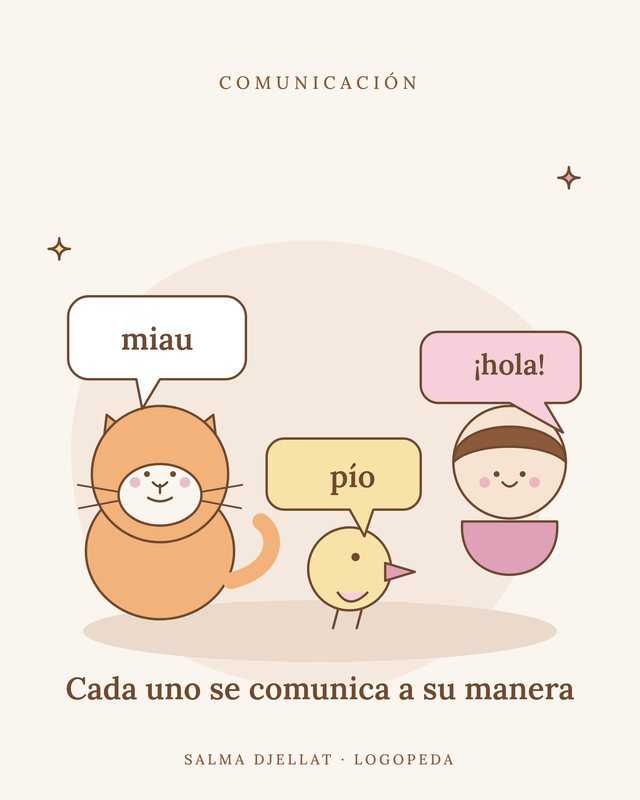
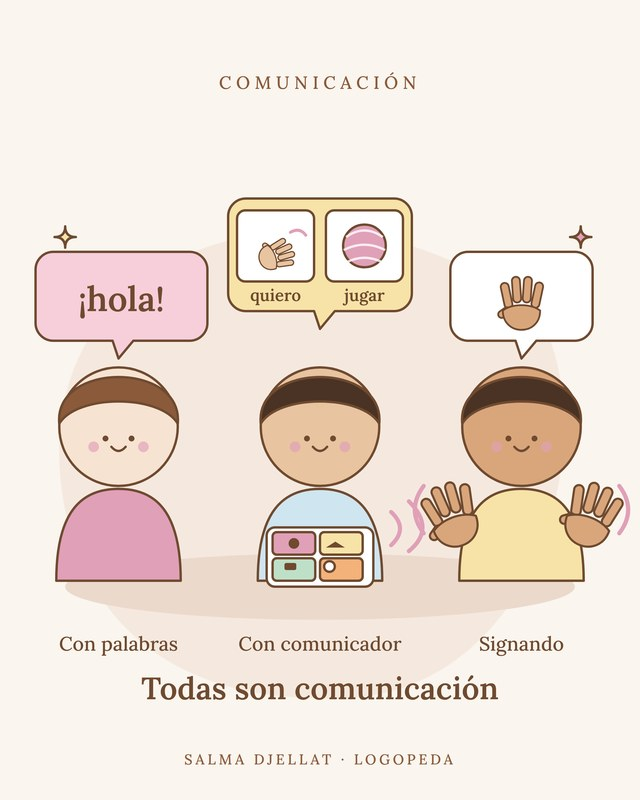
Add files via upload

diff --git a/preguntas (10).html b/preguntas (10).html
@@ -1,0 +1,140 @@
+<!DOCTYPE html>
+<html lang="es">
+<head>
+<meta charset="UTF-8">
+<meta name="viewport" content="width=device-width, initial-scale=1, viewport-fit=cover">
+<title>Preguntas frecuentes &middot; Logopedia Salma Djellat</title>
+<link rel="canonical" href="https://logopediasalmadjellat.com/preguntas.html">
+<meta name="description" content="Respuestas a las dudas m&aacute;s habituales sobre las sesiones de logopedia con Salma Djellat.">
+<link rel="icon" href="favicon.ico" sizes="any">
+<link rel="icon" type="image/png" sizes="48x48" href="/favicon-48.png">
+<link rel="icon" type="image/png" sizes="96x96" href="/favicon-96.png">
+<link rel="icon" type="image/png" sizes="192x192" href="/favicon-192.png">
+<link rel="icon" type="image/png" sizes="32x32" href="favicon-32.png">
+<link rel="icon" type="image/png" sizes="16x16" href="favicon-16.png">
+<link rel="apple-touch-icon" href="apple-touch-icon.png">
+<link rel="stylesheet" href="styles.css">
+</head>
+<body>
+<header class="site">
+  <div class="wrap nav">
+    <a class="brand" href="index.html">
+      <svg viewBox="0 0 380 380" xmlns="http://www.w3.org/2000/svg" fill="none" aria-hidden="true">
+        <defs>
+          <path id="hdrTop" d="M 72,190 a 118,118 0 1,1 236,0" fill="none"/>
+          <path id="hdrBot" d="M 308,190 a 118,118 0 1,1 -236,0" fill="none"/>
+        </defs>
+        <circle cx="190" cy="190" r="150" fill="none" stroke="var(--brown)" stroke-width="3"/>
+        <text font-family="'EB Garamond', Georgia, serif" font-size="30" letter-spacing="8" fill="var(--brown)">
+          <textPath href="#hdrTop" startOffset="50%" text-anchor="middle">S D</textPath>
+        </text>
+        <text x="190" y="240" text-anchor="middle" font-family="'Alex Brush', cursive" font-size="150" fill="var(--brown)">Db</text>
+      </svg>
+      <span class="brand-name">Logopedia Salma <b>Djellat</b></span>
+    </a>
+    <details class="nav-dropdown">
+      <summary>Menú <span class="chev">&#9662;</span></summary>
+      <div class="dropdown-panel">
+        <a href="index.html">Inicio</a>
+        <a href="sobre-mi.html">Sobre mí</a>
+        <a href="servicios.html">Servicios</a>
+        <a href="senales.html">Blog</a>
+        <a href="colegios.html">Colegios</a>
+        <a href="preguntas.html" class="active">Preguntas</a>
+
+      </div>
+    </details>
+  </div>
+</header>
+
+<main id="top">
+  <section class="page-hero" style="border-top:none;">
+    <div class="wrap">
+      <p class="section-label">Preguntas frecuentes</p>
+      <h1 class="page-title">Antes de escribirme</h1>
+      <p class="page-subtitle">Lo que m&aacute;s me preguntan las familias</p>
+    </div>
+  </section>
+  <section style="border-top:none;">
+    <div class="wrap">
+      <div class="faq-layout">
+        <div class="faq-main">
+          <h2 class="faq-group">Antes de empezar</h2>
+          <div class="faq-list">
+          <details class="faq-item"><summary>&iquest;Necesito una derivaci&oacute;n m&eacute;dica para pedir cita?</summary><p>No hace falta ninguna derivaci&oacute;n previa. Podemos empezar directamente con una valoraci&oacute;n o evaluaci&oacute;n inicial y, si es necesario, coordinar despu&eacute;s con el pediatra o neuropediatra.</p></details>
+          <details class="faq-item"><summary>&iquest;Qu&eacute; pasa si mi hijo o hija todav&iacute;a no tiene diagn&oacute;stico?</summary><p>No es necesario tener un diagn&oacute;stico cerrado para empezar. La evaluaci&oacute;n logop&eacute;dica ayuda precisamente a perfilar las dificultades, y si hace falta, se deriva a otro profesional.</p></details>
+          <details class="faq-item"><summary>&iquest;Con qu&eacute; edades trabajas?</summary><p>Con ni&ntilde;os y adolescentes, desde la atenci&oacute;n temprana (0&ndash;6 a&ntilde;os) hasta la adolescencia. Los adultos con alteraciones del lenguaje o del habla de origen neurol&oacute;gico, en modalidad online.</p></details>
+          <details class="faq-item"><summary>&iquest;Qu&eacute; necesito para empezar la intervenci&oacute;n?</summary><p>Basta con una primera valoraci&oacute;n de hasta 45 minutos, sin compromiso. Si tienes un informe del colegio con las dificultades observadas, puedes aportarlo; nos ayuda a orientar mejor la intervenci&oacute;n.</p></details>
+          </div>
+          <h2 class="faq-group">Las sesiones</h2>
+          <div class="faq-list">
+          <details class="faq-item"><summary>&iquest;Qu&eacute; pasa en la primera valoraci&oacute;n?</summary><p>Dura hasta 45 minutos y es sin compromiso. Nos conocemos, valoro qu&eacute; necesita tu hijo o hija y te explico c&oacute;mo podemos trabajar.</p></details>
+          <details class="faq-item"><summary>&iquest;Cu&aacute;nto dura cada sesi&oacute;n?</summary><p>Normalmente son sesiones de 30 o 45 minutos a la semana, seg&uacute;n lo que necesite cada ni&ntilde;o o ni&ntilde;a.</p></details>
+          <details class="faq-item"><summary>&iquest;C&oacute;mo puedo ayudar en casa?</summary><p>Te doy pautas sencillas y pr&aacute;cticas para el d&iacute;a a d&iacute;a, adaptadas a cada caso, para que lo trabajado en consulta se note tambi&eacute;n en casa.</p></details>
+          <details class="faq-item"><summary>&iquest;Trabaj&aacute;is con el colegio o el equipo de orientaci&oacute;n?</summary><p>S&iacute;. Mantengo un contacto estrecho con el centro escolar para abordar las dificultades de forma multidisciplinar, junto al equipo educativo.</p></details>
+          <details class="faq-item"><summary>&iquest;Cu&aacute;nto cuesta?</summary><p>Mi prioridad es que tu peque reciba la ayuda que necesita, as&iacute; que me adapto al presupuesto de cada familia. Escr&iacute;beme y lo hablamos sin compromiso, o lo vemos en la primera valoraci&oacute;n.</p></details>
+          </div>
+          <h2 class="faq-group">D&oacute;nde y c&oacute;mo pedir cita</h2>
+          <div class="faq-list">
+          <details class="faq-item"><summary>&iquest;D&oacute;nde son las sesiones?</summary><p>La atenci&oacute;n infantojuvenil es a domicilio, en Arganda del Rey, La Poveda, Rivas Vaciamadrid, Velilla de San Antonio, Mejorada del Campo, Loeches, Campo Real y, en Madrid, Carabanchel, Usera, Latina y Arganzuela. La logopedia en adultos es online.</p></details>
+          <details class="faq-item"><summary>&iquest;C&oacute;mo pido cita?</summary><p>Escr&iacute;beme por WhatsApp o email y te responder&eacute; para concretar d&iacute;a y hora dentro del horario de atenci&oacute;n, de lunes a viernes de 16:00 a 20:00h.</p></details>
+          </div>
+        </div>
+        <aside class="faq-side">
+          <img src="faq-comunicacion.jpg" alt="Tres ni&ntilde;os se comunican: con palabras, con comunicador de pictogramas y con lengua de signos" loading="lazy">
+          <h3>&iquest;Otra duda?</h3>
+          <p>Escr&iacute;beme y te respondo con calma, sin compromiso.</p>
+          <a class="btn primary" href="https://wa.me/34614245087" target="_blank" rel="noopener">Escribir por WhatsApp</a>
+        </aside>
+      </div>
+    </div>
+  </section>
+
+  <section class="page-cta">
+    <div class="wrap">
+      <p>&iquest;Hablamos de tu caso?</p>
+      <a class="btn primary" href="contacto.html">Pedir cita</a>
+    </div>
+  </section>
+</main>
+
+<a class="wa-float" href="https://wa.me/34614245087" target="_blank" rel="noopener" aria-label="Escribir por WhatsApp">
+  <svg viewBox="0 0 24 24" fill="none" xmlns="http://www.w3.org/2000/svg" aria-hidden="true">
+    <path d="M12 3C7.03 3 3 7.03 3 12c0 1.66.46 3.22 1.26 4.56L3 21l4.6-1.23A8.93 8.93 0 0 0 12 21c4.97 0 9-4.03 9-9s-4.03-9-9-9Z" stroke="currentColor" stroke-width="1.5" stroke-linejoin="round"/>
+    <path d="M8.7 8.4c.2-.5.5-.5.8-.5h.5c.2 0 .4 0 .6.4.2.5.6 1.5.7 1.6.1.1.1.3 0 .5-.1.2-.2.3-.3.4l-.4.5c-.1.1-.2.3-.1.5.2.4.7 1.1 1.4 1.7.9.8 1.6 1 1.9 1.2.2.1.4.1.5-.1l.6-.7c.2-.2.4-.2.6-.1l1.4.7c.2.1.3.2.4.3.1.2.1.9-.2 1.4-.3.5-1.4 1-2 1-.6 0-1.4-.1-3.4-1.3-2.3-1.4-3.7-3.5-3.9-3.8-.1-.3-.9-1.4-.9-2.6 0-1.2.6-1.8.8-2Z" fill="currentColor"/>
+  </svg>
+</a>
+
+<a class="li-float" href="https://www.linkedin.com/in/salma-djellat-a5513236b" target="_blank" rel="noopener" aria-label="Perfil de LinkedIn de Salma Djellat">
+  <img src="perfil-linkedin.jpg" alt="Salma Djellat">
+  <span class="li-label">
+    <span class="li-name">Salma Djellat</span>
+    <span class="li-sub"><svg viewBox="0 0 24 24" fill="currentColor" xmlns="http://www.w3.org/2000/svg" aria-hidden="true"><path d="M4.98 3.5a2.5 2.5 0 1 1 0 5 2.5 2.5 0 0 1 0-5ZM3 9h4v12H3V9Zm7 0h3.6v1.7h.05c.5-.95 1.75-1.95 3.6-1.95 3.85 0 4.55 2.5 4.55 5.75V21h-4v-5.4c0-1.3-.02-2.95-1.8-2.95-1.8 0-2.1 1.4-2.1 2.85V21h-4V9Z"/></svg>Ver perfil</span>
+  </span>
+</a>
+
+  
+<footer class="site">
+  <p class="flourish">db</p>
+  <div class="footer-contact">
+    <a href="https://mail.google.com/mail/?view=cm&amp;fs=1&amp;to=atbesalma@gmail.com&amp;su=Consulta%20desde%20la%20web" target="_blank" rel="noopener">atbesalma@gmail.com</a>
+    <span class="footer-sep">&middot;</span>
+    <a href="https://wa.me/34614245087" target="_blank" rel="noopener">WhatsApp 614 245 087</a>
+    <span class="footer-sep">&middot;</span>
+    <a href="tel:+34614245087">Llamar 614 245 087</a>
+    <span class="footer-sep">&middot;</span>
+    <a href="https://www.instagram.com/logopedia.salmadb/" target="_blank" rel="noopener">Instagram @logopedia.salmadb</a>
+  </div>
+    <div class="footer-map" data-map data-src="https://www.google.com/maps?q=40.39,-3.62&amp;z=10&amp;output=embed" data-link="https://www.google.com/maps/@40.39,-3.62,10z" data-title="Zona de cobertura: Arganda del Rey, La Poveda, Rivas Vaciamadrid, Velilla de San Antonio, Mejorada del Campo, Loeches, Campo Real, Carabanchel, Usera, Latina y Arganzuela"></div>
+  <img class="colegio-logo" src="logo-colegio-logopedas.png" alt="Colegio de Logopedas de Madrid" width="240" height="72" loading="lazy">
+  <p>Salma Djellat &middot; Logopeda colegiada n&ordm; 28/2229 &middot; Atenci&oacute;n a domicilio en Arganda del Rey, alrededores y Madrid</p>
+  <p class="footer-legal"><a href="politica-cookies.html">Pol&iacute;tica de cookies</a> &middot; <a href="aviso-legal.html">Aviso legal y privacidad</a> &middot; <a href="#" data-cookie-prefs>Preferencias de cookies</a></p>
+  <details class="legal-toggle">
+    <summary>Aviso legal y protecci&oacute;n de datos</summary>
+    <p>En cumplimiento del Reglamento (UE) 2016/679 (RGPD) y la Ley Org&aacute;nica 3/2018 (LOPDGDD), los datos personales que facilites por correo electr&oacute;nico, WhatsApp o cualquier otro medio de contacto ser&aacute;n tratados por Salma Djellat, logopeda colegiada n&ordm; 28/2229, con la &uacute;nica finalidad de gestionar tu consulta o solicitud de cita. No se cender&aacute;n a terceros salvo obligaci&oacute;n legal. Puedes ejercer tus derechos de acceso, rectificaci&oacute;n, supresi&oacute;n y oposici&oacute;n escribiendo a atbesalma@gmail.com. Esta web no utiliza cookies de anal&iacute;tica ni de publicidad. El mapa de Google Maps solo se carga si das tu consentimiento y Google puede instalar en ese caso sus propias cookies; consulta la <a href="politica-cookies.html">pol&iacute;tica de cookies</a>.</p>
+  </details>
+</footer>
+
+<script src="consent.js" defer></script>
+</body>
+</html>
